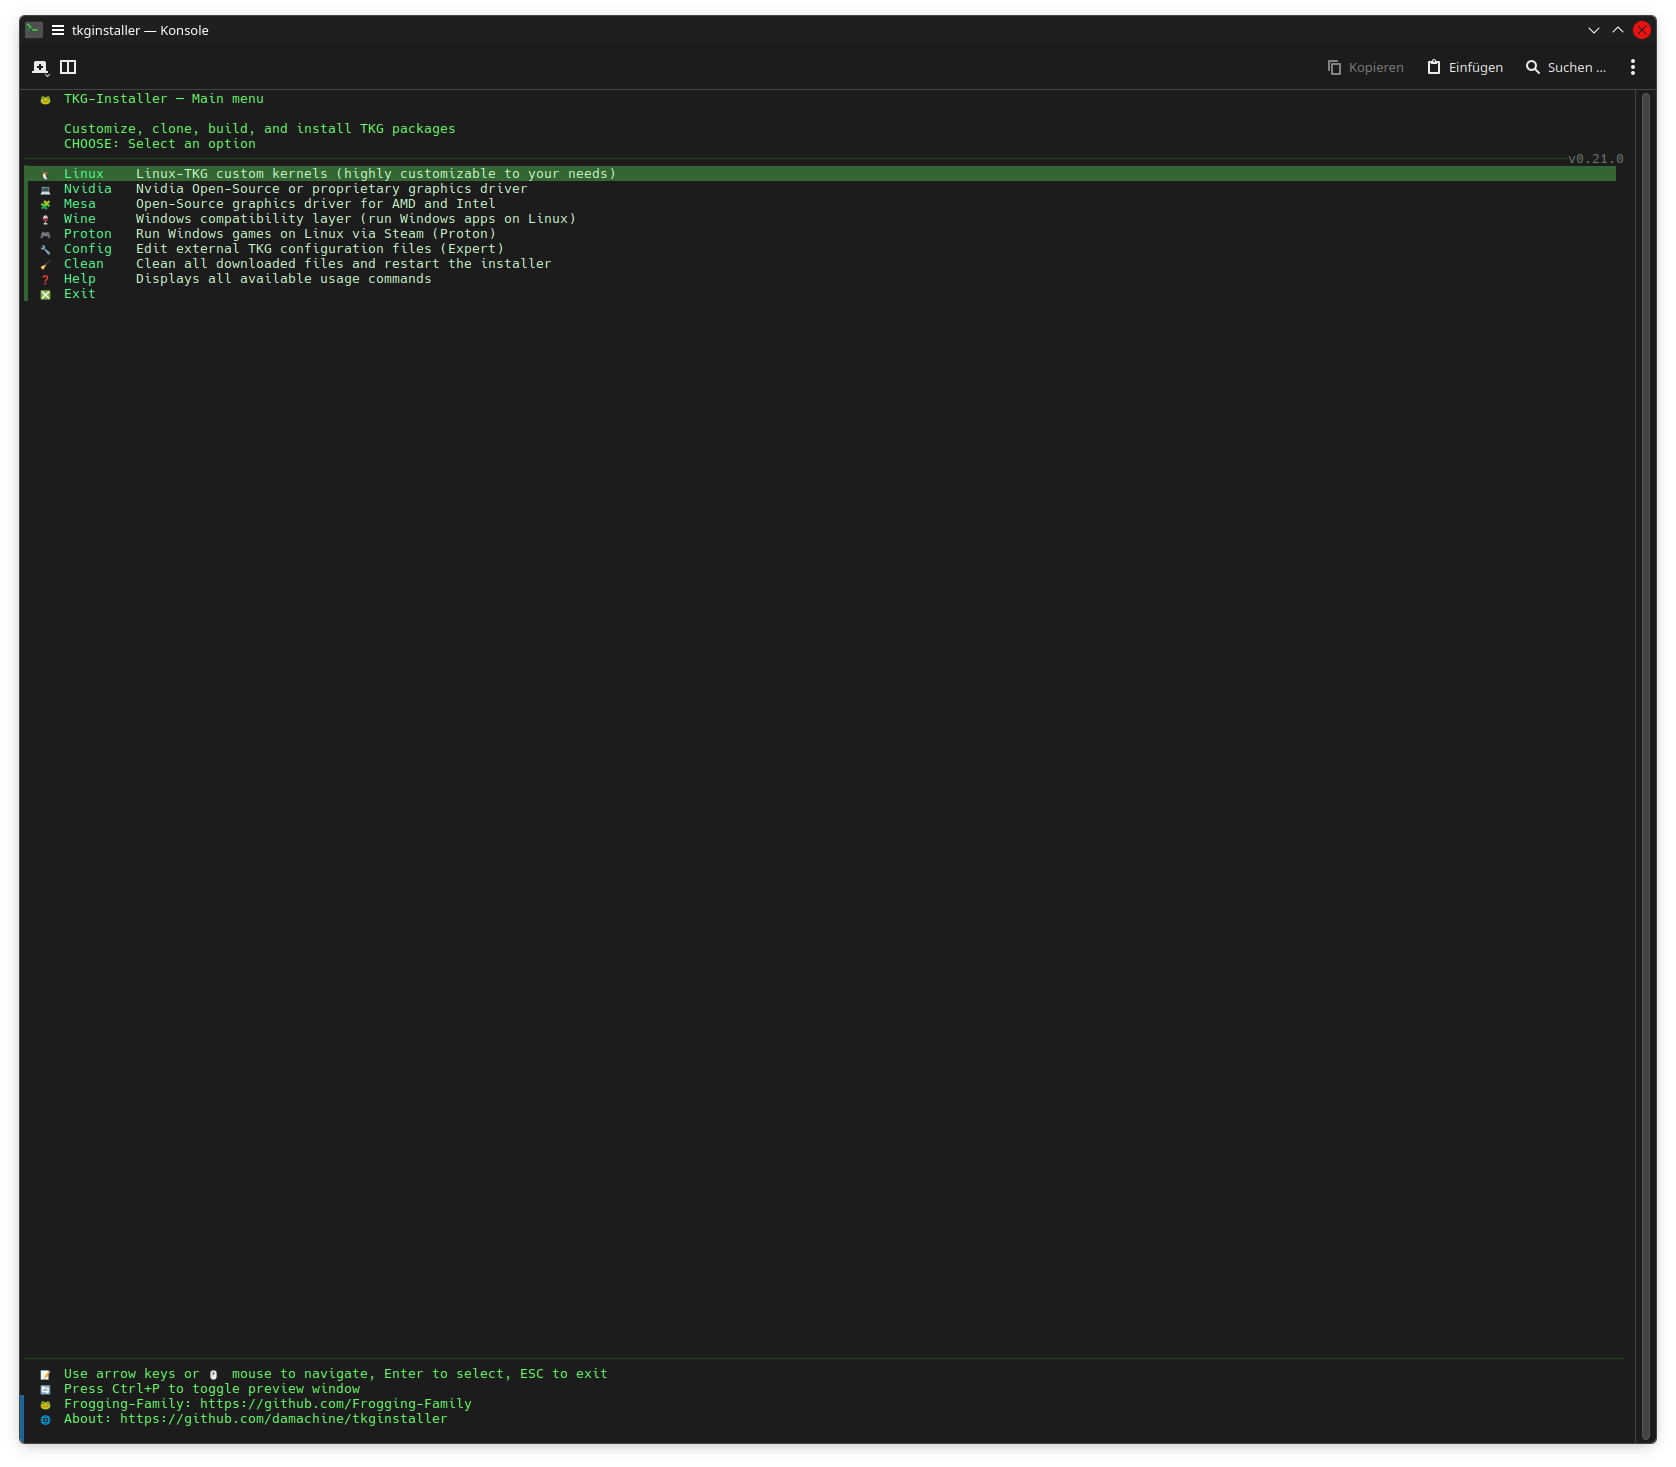
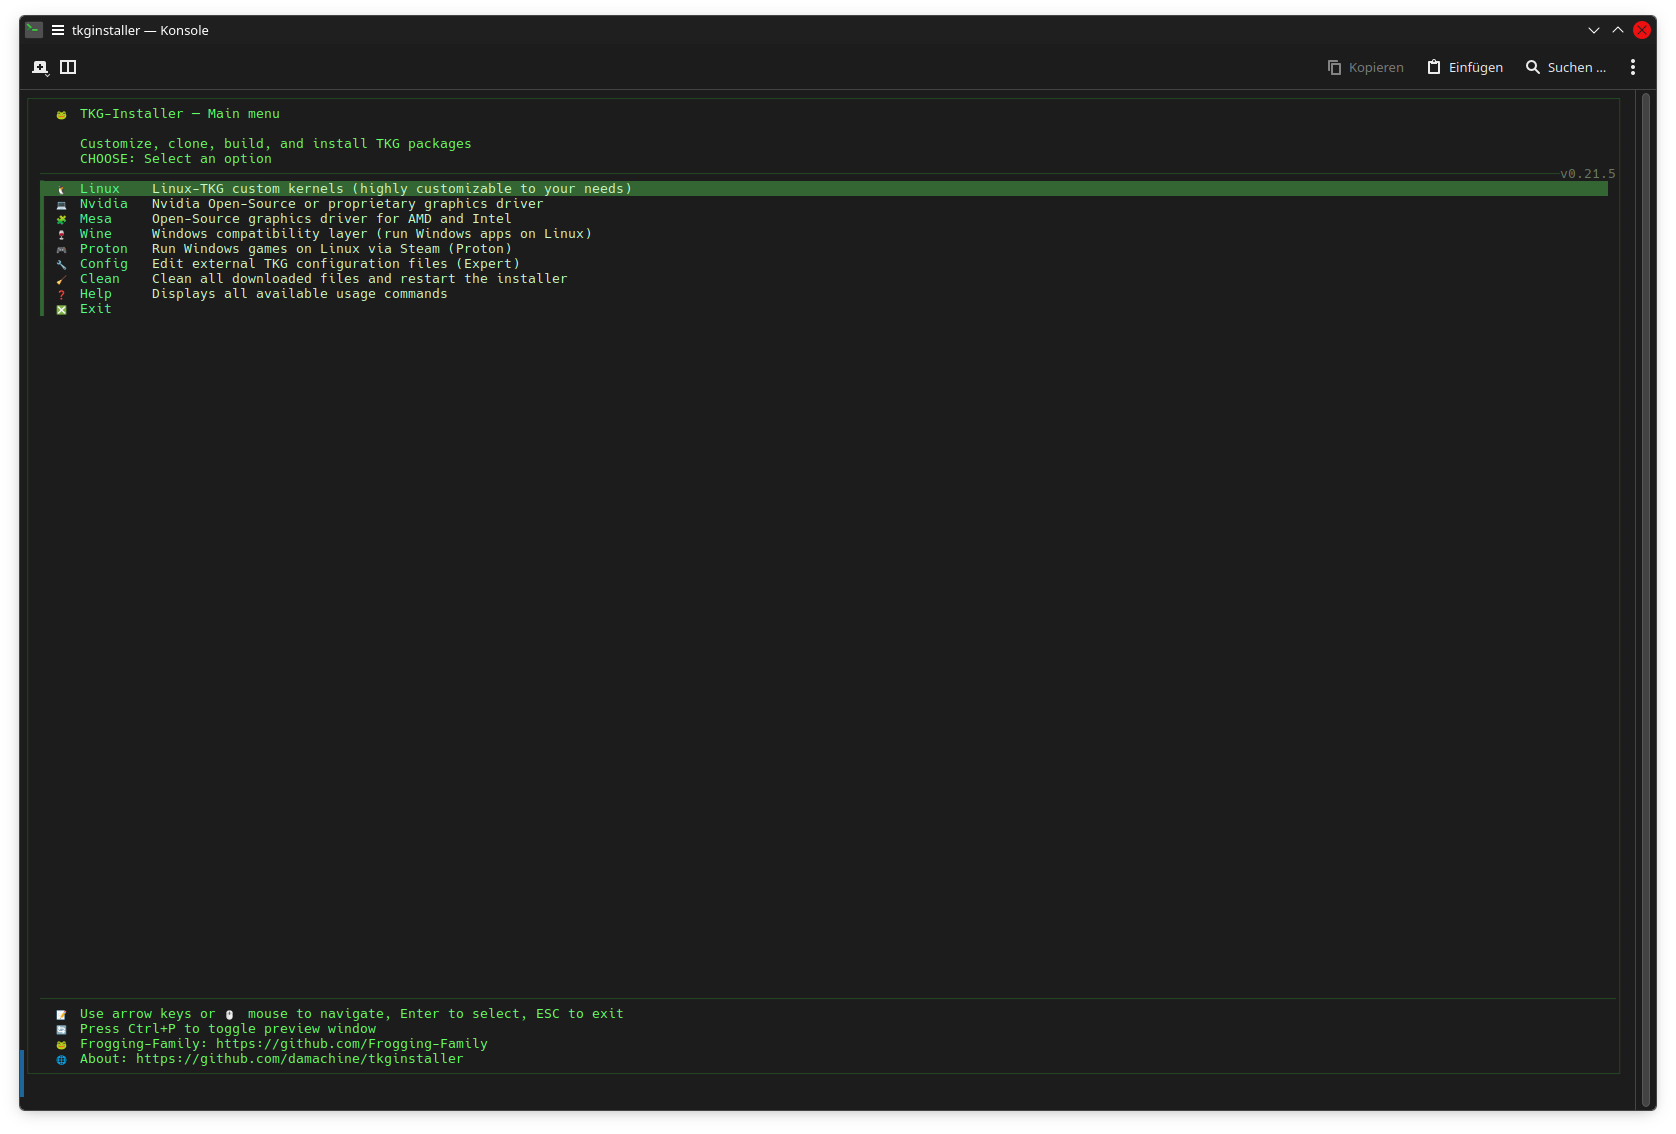
docs: Update images and README

Changed region(s): [[0.0, 0.0, 0.9928, 0.2778], [0.0, 0.8951, 0.9928, 0.9877], [0.9618, 0.0617, 0.9928, 0.0926]]

diff --git a/README.md b/README.md
@@ -10,7 +10,7 @@
 
 # TKG-Installer 🐸
 
-#### A Frogpond command line tool to assist with the installation and configuration of the powerful of TKG packages from the repositories of the [Frogging-Family](https://github.com/Frogging-Family).
+#### Commandline tool to assist with the installation and configuration of the powerful TKG packages from the repositories of the [Frogging-Family](https://github.com/Frogging-Family).
 
 ##### Thanks to their flexible configuration and powerful settings functions, TKG packages can be precisely tailored to different systems and personal requirements. This versatility makes them an indispensable part of any Linux system.
 
@@ -26,11 +26,10 @@
 
 [![tkginstaller-fzf](images/fzf.png)](images/fzf.png)
 [![tkginstaller-fzf2](images/fzf2.png)](images/fzf2.png)
-[![tkginstaller-c](images/config.png)](images/config.png)
-[![tkginstaller-l](images/linux.png)](images/linux.png)
-[![tkginstaller-w](images/wine.png)](images/wine.png)
-[![tkginstaller-w](images/proton.png)](images/proton.png)
-[![tkginstaller-help](images/help.png)](images/help.png)
+[![tkginstaller-fzfconfig](images/config.png)](images/config.png)
+[![tkginstaller-linuxdirect](images/linux.png)](images/linux.png)
+[![tkginstaller-winedirect](images/wine.png)](images/wine.png)
+[![tkginstaller-protondirect](images/proton.png)](images/proton.png)
 
 ---
 
